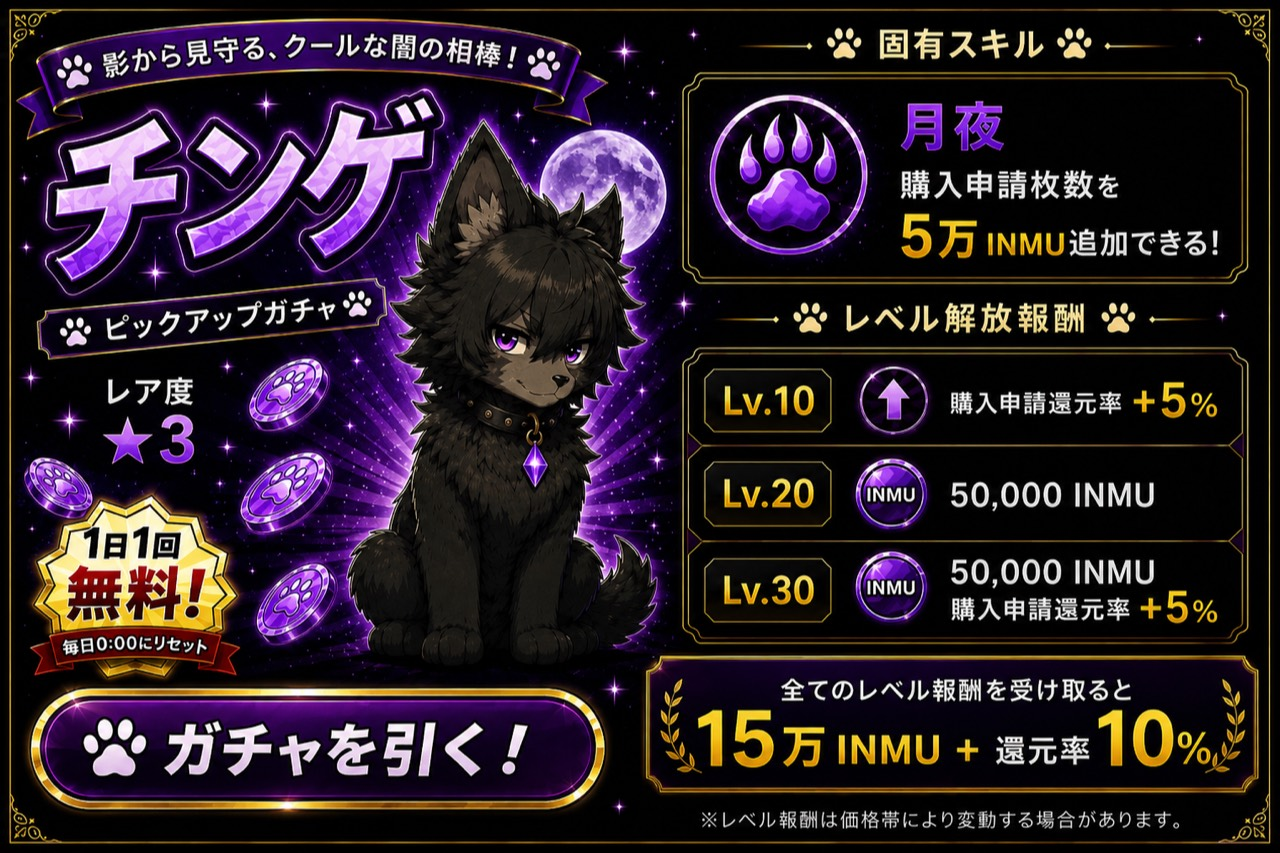
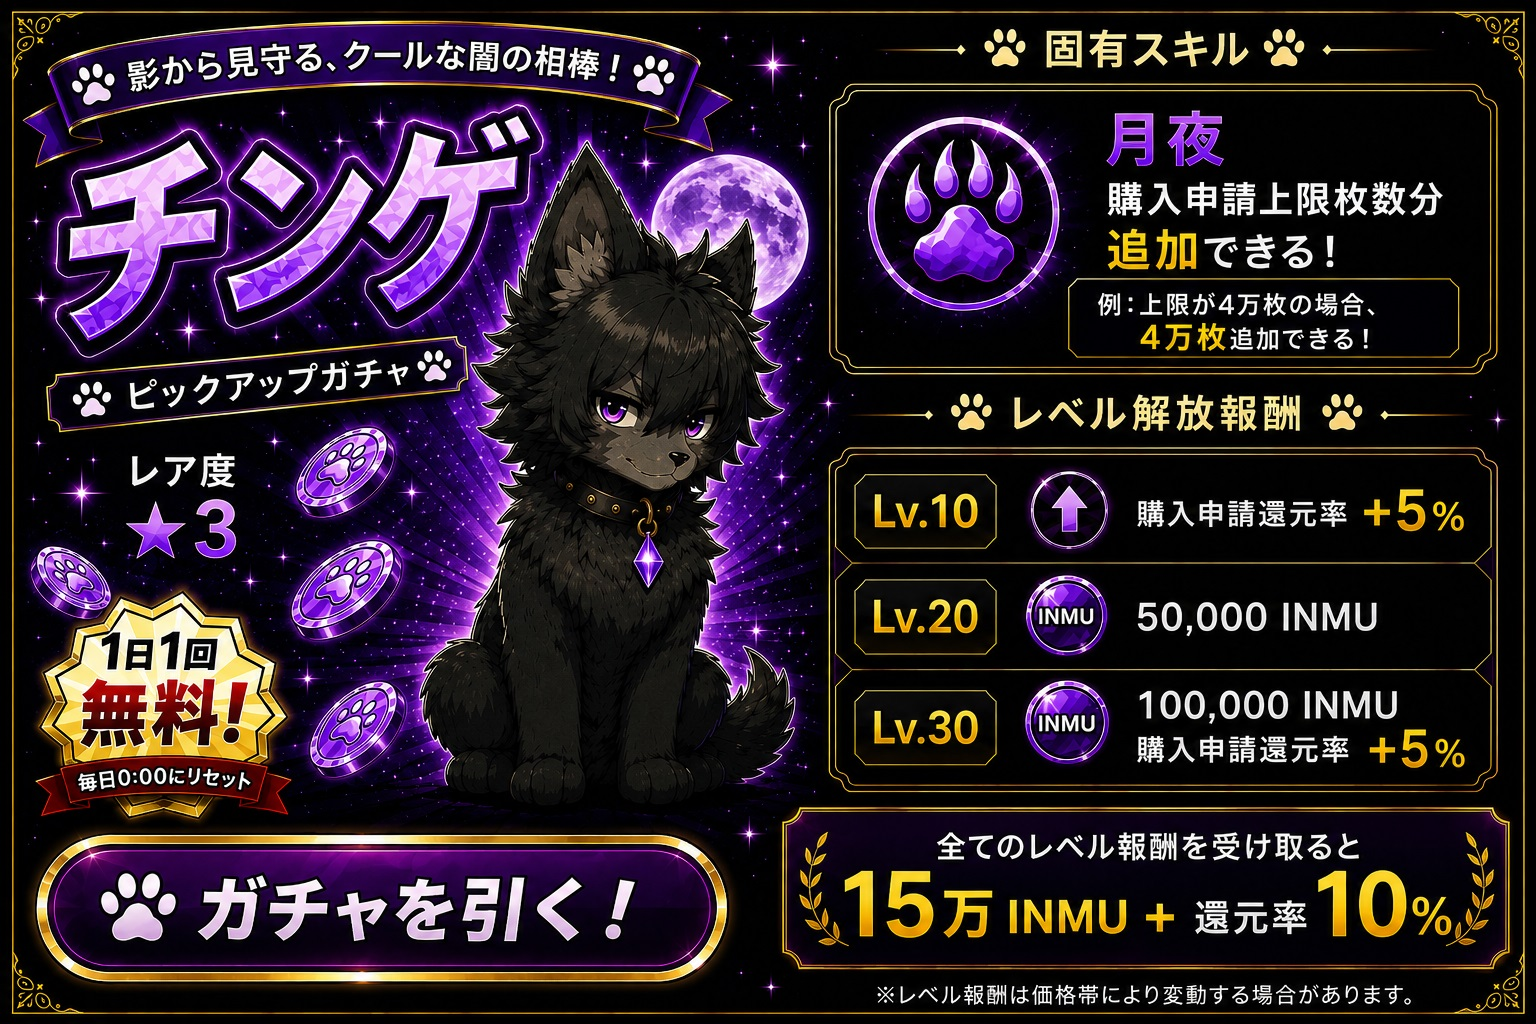
feat: add pet gacha admin history and dynamic skill cap

diff --git a/artifacts/inmu-bank/src/components/admin-panel.tsx b/artifacts/inmu-bank/src/components/admin-panel.tsx
@@ -301,6 +301,24 @@ type SpinRow = {
   createdAt: string
 }
 
+type PetGachaHistoryRow = {
+  id: number
+  userId: string
+  displayName: string | null
+  solWallet: string | null
+  gachaType: 'points' | 'paid'
+  pullType: string
+  costPoints: number
+  costInmu: number
+  txId: string | null
+  payerWallet: string | null
+  results: Array<{ label?: string; type?: string; amount?: number; characterId?: string }>
+  tdnRerollGrantedAt: string | null
+  tdnRerollUsedAt: string | null
+  tdnRerollSourceId: number | null
+  createdAt: string
+}
+
 function formatSettingDisplay(key: string, value: string): string {
   if (SYSTEM_SETTING_TYPE[key] === 'boolean') return value === 'true' ? '✅ 有効' : '❌ 無効'
   if (SYSTEM_SETTING_TYPE[key] === 'date') return value || '未設定'
@@ -651,6 +669,9 @@ export function AdminPanel({ users, onRefresh }: { users: UserRow[]; onRefresh: 
   const [gachaSpins, setGachaSpins] = useState<SpinRow[]>([])
   const [gachaSpinsLoading, setGachaSpinsLoading] = useState(false)
   const [gachaSpinsFetched, setGachaSpinsFetched] = useState(false)
+  const [petGachaHistory, setPetGachaHistory] = useState<PetGachaHistoryRow[]>([])
+  const [petGachaLoading, setPetGachaLoading] = useState(false)
+  const [petGachaFetched, setPetGachaFetched] = useState(false)
 
   const loadGachaResults = useCallback(async () => {
     if (gachaFetched) return
@@ -674,21 +695,54 @@ export function AdminPanel({ users, onRefresh }: { users: UserRow[]; onRefresh: 
     finally { setGachaSpinsLoading(false) }
   }, [api, gachaSpinsFetched])
 
+  const loadPetGachaHistory = useCallback(async () => {
+    if (petGachaFetched) return
+    setPetGachaLoading(true)
+    try {
+      const data = await api('/admin/pet-gacha/history', 'GET') as PetGachaHistoryRow[]
+      setPetGachaHistory(Array.isArray(data) ? data : [])
+      setPetGachaFetched(true)
+    } catch { toast.error('PETガチャ履歴の取得に失敗しました') }
+    finally { setPetGachaLoading(false) }
+  }, [api, petGachaFetched])
+
+  useEffect(() => {
+    if (gachaFetched && !petGachaFetched && !petGachaLoading) {
+      void loadPetGachaHistory()
+    }
+  }, [gachaFetched, loadPetGachaHistory, petGachaFetched, petGachaLoading])
+
+  async function reloadPetGachaHistory() {
+    setPetGachaFetched(false)
+    setPetGachaLoading(true)
+    try {
+      const data = await api('/admin/pet-gacha/history', 'GET') as PetGachaHistoryRow[]
+      setPetGachaHistory(Array.isArray(data) ? data : [])
+      setPetGachaFetched(true)
+    } catch { toast.error('PETガチャ履歴の取得に失敗しました') }
+    finally { setPetGachaLoading(false) }
+  }
+
   async function reloadGachaResults() {
     setGachaFetched(false)
     setGachaSpinsFetched(false)
+    setPetGachaFetched(false)
     setGachaLoading(true)
+    setPetGachaLoading(true)
     try {
-      const [data, spins] = await Promise.all([
+      const [data, spins, petHistory] = await Promise.all([
         api('/admin/gacha/results', 'GET') as Promise<GachaResultRow[]>,
         api('/admin/gacha/spins', 'GET') as Promise<SpinRow[]>,
+        api('/admin/pet-gacha/history', 'GET') as Promise<PetGachaHistoryRow[]>,
       ])
       setGachaResults(Array.isArray(data) ? data : [])
       setGachaSpins(Array.isArray(spins) ? spins : [])
+      setPetGachaHistory(Array.isArray(petHistory) ? petHistory : [])
       setGachaFetched(true)
       setGachaSpinsFetched(true)
+      setPetGachaFetched(true)
     } catch { toast.error('ガチャデータの取得に失敗しました') }
-    finally { setGachaLoading(false) }
+    finally { setGachaLoading(false); setPetGachaLoading(false) }
   }
 
   // ── 個別 Phantom 送金（1当選 = 1 TX）──
@@ -2840,6 +2894,71 @@ export function AdminPanel({ users, onRefresh }: { users: UserRow[]; onRefresh: 
               </>
             )
           })()}
+
+          <Card className="border-border bg-card p-3 flex flex-col gap-3">
+            <div className="flex items-center justify-between gap-2">
+              <div className="min-w-0">
+                <p className="text-sm font-semibold">INMU PETガチャ履歴</p>
+                <p className="text-[10px] text-muted-foreground">ポイントガチャ / INMUガチャの直近200件</p>
+              </div>
+              <Button size="sm" variant="outline" className="h-8 text-xs shrink-0" onClick={reloadPetGachaHistory} disabled={petGachaLoading}>
+                <RefreshCw className={`size-3 mr-1 ${petGachaLoading ? 'animate-spin' : ''}`} />更新
+              </Button>
+            </div>
+
+            {petGachaLoading ? (
+              <p className="text-xs text-center text-muted-foreground py-4">読み込み中...</p>
+            ) : petGachaHistory.length === 0 ? (
+              <p className="text-xs text-center text-muted-foreground py-4 border border-dashed border-border rounded-lg">PETガチャ履歴はありません</p>
+            ) : (
+              <div className="flex flex-col gap-2 max-h-[520px] overflow-y-auto pr-1">
+                {petGachaHistory.map(row => {
+                  const isPaid = row.gachaType === 'paid'
+                  const pullLabel = row.pullType === 'eleven'
+                    ? '11連'
+                    : row.pullType === 'multi'
+                      ? '10連'
+                      : row.pullType === 'free'
+                        ? '無料'
+                        : row.pullType === 'tdn_reroll'
+                          ? 'TDN再抽選'
+                          : '1連'
+                  const resultLabels = Array.isArray(row.results)
+                    ? row.results.map(prize => prize.label || prize.characterId || prize.type || '不明').join(' / ')
+                    : ''
+                  return (
+                    <div key={row.id} className="rounded-lg border border-border bg-secondary/10 p-2.5">
+                      <div className="flex items-start justify-between gap-2">
+                        <div className="min-w-0">
+                          <div className="flex items-center gap-1.5 flex-wrap">
+                            <span className="text-xs font-bold">{row.displayName || row.userId.slice(0, 12)}</span>
+                            <span className={`text-[10px] px-1.5 py-0.5 rounded border ${isPaid ? 'border-yellow-500/40 text-yellow-300 bg-yellow-950/20' : 'border-cyan-500/40 text-cyan-300 bg-cyan-950/20'}`}>
+                              {isPaid ? 'INMUガチャ' : 'ポイントガチャ'}
+                            </span>
+                            <span className="text-[10px] text-muted-foreground">{pullLabel}</span>
+                            {row.tdnRerollSourceId != null && <span className="text-[10px] text-purple-300 border border-purple-500/30 rounded px-1.5 py-0.5">TDN再抽選</span>}
+                            {row.tdnRerollGrantedAt && !row.tdnRerollUsedAt && <span className="text-[10px] text-emerald-300 border border-emerald-500/30 rounded px-1.5 py-0.5">もう一度引く権利あり</span>}
+                          </div>
+                          <p className="text-[10px] text-muted-foreground mt-0.5">
+                            {new Date(row.createdAt).toLocaleString('ja-JP', { month: '2-digit', day: '2-digit', hour: '2-digit', minute: '2-digit' })}
+                            {row.costPoints > 0 && ` / ${Number(row.costPoints).toLocaleString()}pt`}
+                            {row.costInmu > 0 && ` / ${Number(row.costInmu).toLocaleString()} INMU`}
+                          </p>
+                          {row.txId && (
+                            <p className="text-[10px] text-muted-foreground mt-0.5">
+                              txId: <span className="font-mono">{row.txId.slice(0, 14)}...</span>
+                            </p>
+                          )}
+                          <p className="text-[10px] text-foreground/80 mt-1 truncate">{resultLabels || '結果なし'}</p>
+                        </div>
+                        <span className="text-[9px] text-muted-foreground shrink-0">#{row.id}</span>
+                      </div>
+                    </div>
+                  )
+                })}
+              </div>
+            )}
+          </Card>
         </TabsContent>
       </Tabs>
 

diff --git a/artifacts/api-server/src/routes/purchase-requests.ts b/artifacts/api-server/src/routes/purchase-requests.ts
@@ -26,9 +26,6 @@ pool.query(`
 `).catch((e: unknown) => console.error('[PurchaseRequests] ALTER TABLE error:', e));
 
 type PetRebateBonus = { characterId: string; source: "level_reward" | "skill"; label: string; rate: number; eventOnly: boolean };
-const PURCHASE_LIMIT_SKILL_REDUCTION_START = new Date("2026-07-18T15:00:00.000Z");
-const PURCHASE_LIMIT_SKILL_BONUS_BEFORE_REDUCTION = 100_000;
-const PURCHASE_LIMIT_SKILL_BONUS_AFTER_REDUCTION = 50_000;
 const DAY_MS = 24 * 60 * 60 * 1000;
 const SLOT_REBATE_RULE_START_JST = "2026-07-16";
 
@@ -253,26 +250,16 @@ async function getDailyLimit(isEventDay: boolean): Promise<number> {
 
 async function getUserDailyLimit(userId: string, isEventDay: boolean): Promise<number> {
   const baseLimit = await getDailyLimit(isEventDay);
+  const skillBonus = await getPurchaseLimitSkillBonus(userId, baseLimit);
+  return baseLimit + skillBonus;
+}
+
+async function getPurchaseLimitSkillBonus(userId: string, baseLimit: number): Promise<number> {
   const [hasLeonSkill, hasChingeSkill] = await Promise.all([
     hasActivePetSkill(userId, "leon"),
     hasActivePetSkill(userId, "chinge"),
   ]);
-  const skillBonus = getPurchaseLimitSkillBonusAmount();
-  return baseLimit + (hasLeonSkill ? skillBonus : 0) + (hasChingeSkill ? skillBonus : 0);
-}
-
-function getPurchaseLimitSkillBonusAmount(now = new Date()): number {
-  return now >= PURCHASE_LIMIT_SKILL_REDUCTION_START
-    ? PURCHASE_LIMIT_SKILL_BONUS_AFTER_REDUCTION
-    : PURCHASE_LIMIT_SKILL_BONUS_BEFORE_REDUCTION;
-}
-
-async function getPurchaseLimitSkillBonus(userId: string): Promise<number> {
-  const [hasLeonSkill, hasChingeSkill] = await Promise.all([
-    hasActivePetSkill(userId, "leon"),
-    hasActivePetSkill(userId, "chinge"),
-  ]);
-  const skillBonus = getPurchaseLimitSkillBonusAmount();
+  const skillBonus = Math.max(0, Number(baseLimit) || 0);
   return (hasLeonSkill ? skillBonus : 0) + (hasChingeSkill ? skillBonus : 0);
 }
 
@@ -330,15 +317,15 @@ router.get("/purchase-requests", requireAuth, async (req, res): Promise<void> =>
     const monthEnd   = getMonthEndUTC(now);
     const daysInMonth = getDaysInCurrentMonth(now);
 
-    const [eventSettings, requests, normalDailyLimit, purchaseLimitSkillBonus] = await Promise.all([
+    const [eventSettings, requests, normalDailyLimit] = await Promise.all([
       getEventSettings(),
       db.select().from(purchaseRequestsTable)
         .where(eq(purchaseRequestsTable.userId, userId))
         .orderBy(desc(purchaseRequestsTable.createdAt))
         .limit(50),
       getNormalDailyLimit(),
-      getPurchaseLimitSkillBonus(userId),
     ]);
+    const purchaseLimitSkillBonus = await getPurchaseLimitSkillBonus(userId, normalDailyLimit);
 
     const monthlyCapacity = (normalDailyLimit + purchaseLimitSkillBonus) * daysInMonth;
     // サイクル残り日数（今日〜15日終わりまで）。15日当日も23:59までは1日分として扱う。
@@ -418,11 +405,11 @@ router.post("/purchase-requests", requireAuth, async (req, res): Promise<void> =
     const monthEnd   = getMonthEndUTC(now);
     const daysInMonth = getDaysInCurrentMonth(now);
 
-    const [eventSettings, normalDailyLimit, purchaseLimitSkillBonus] = await Promise.all([
+    const [eventSettings, normalDailyLimit] = await Promise.all([
       getEventSettings(),
       getNormalDailyLimit(),
-      getPurchaseLimitSkillBonus(userId),
     ]);
+    const purchaseLimitSkillBonus = await getPurchaseLimitSkillBonus(userId, normalDailyLimit);
 
     const monthlyCapacity = (normalDailyLimit + purchaseLimitSkillBonus) * daysInMonth;
 

diff --git a/artifacts/api-server/src/routes/pet-commerce.ts b/artifacts/api-server/src/routes/pet-commerce.ts
@@ -1,7 +1,7 @@
 import { Router } from "express";
 import { pool } from "@workspace/db";
 import { randomUUID } from "crypto";
-import { requireAuth } from "../middlewares/session";
+import { requireAdmin, requireAuth } from "../middlewares/session";
 import { fetchInmuBalance } from "./solana";
 import { hasActivePetSkill, getFreeGachaState } from "../services/pet-skills";
 import { getSystemSettingNumber } from "../services/system-settings-store";
@@ -692,6 +692,43 @@ router.get("/pet-commerce/status", requireAuth, async (req, res): Promise<void> 
   } catch (error) {
     console.error("[PetCommerce] status", error);
     res.status(500).json({ error: "PETガチャ情報の取得に失敗しました" });
+  }
+});
+
+router.get("/admin/pet-gacha/history", requireAdmin, async (_req, res): Promise<void> => {
+  try {
+    await ensurePetCommerceTables();
+    const result = await pool.query(`
+      SELECT
+        h.id,
+        h."userId",
+        p."displayName",
+        p."solWallet",
+        h."gachaType",
+        h."pullType",
+        h."costPoints",
+        h."costInmu",
+        h."txId",
+        h."payerWallet",
+        h.results,
+        h."tdnRerollGrantedAt",
+        h."tdnRerollUsedAt",
+        h."tdnRerollSourceId",
+        h."createdAt"
+      FROM "petGachaHistory" h
+      LEFT JOIN profile p ON p."userId" = h."userId"
+      ORDER BY h."createdAt" DESC
+      LIMIT 200
+    `);
+    res.json(result.rows.map(row => ({
+      ...row,
+      createdAt: row.createdAt ? new Date(row.createdAt).toISOString() : null,
+      tdnRerollGrantedAt: row.tdnRerollGrantedAt ? new Date(row.tdnRerollGrantedAt).toISOString() : null,
+      tdnRerollUsedAt: row.tdnRerollUsedAt ? new Date(row.tdnRerollUsedAt).toISOString() : null,
+    })));
+  } catch (error) {
+    console.error("[PetCommerce] admin history", error);
+    res.status(500).json({ error: "PETガチャ履歴の取得に失敗しました" });
   }
 });
 

diff --git a/artifacts/inmu-bank/src/features/pet/pet-data.ts b/artifacts/inmu-bank/src/features/pet/pet-data.ts
@@ -232,8 +232,8 @@ export const PET_DEFINITIONS: readonly PetDefinition[] = [
     roomImage: leonRoomImage,
     skill: {
       name: '百獣の王',
-      effect: '購入申請上限 +50,000 INMU（1日）',
-      notes: ['Lv.1から発動', '1日の購入申請可能枚数を5万INMU拡張'],
+      effect: '購入申請上限 +購入上限枚数分（1日）',
+      notes: ['Lv.1から発動', '1日の購入申請可能枚数を、その日の購入上限枚数分拡張'],
     },
     levelRewards: [
       { level: 10, label: '王家の絨毯 + 購入申請還元 +5%', detail: 'Lv.10到達で還元率+5%が自動適用', rebateBonus: 5 },
@@ -271,8 +271,8 @@ export const PET_DEFINITIONS: readonly PetDefinition[] = [
     roomImage: chingeRoomImage,
     skill: {
       name: '月夜',
-      effect: '購入申請上限 +50,000 INMU（1日）',
-      notes: ['Lv.1から発動', '1日の購入申請可能枠を5万INMU拡張'],
+      effect: '購入申請上限 +購入上限枚数分（1日）',
+      notes: ['Lv.1から発動', '1日の購入申請可能枠を、その日の購入上限枚数分拡張'],
     },
     levelRewards: [
       { level: 10, label: '月影の護符 + 購入申請還元 +5%', detail: 'Lv.10到達で還元率5%が自動適用', rebateBonus: 5 },
